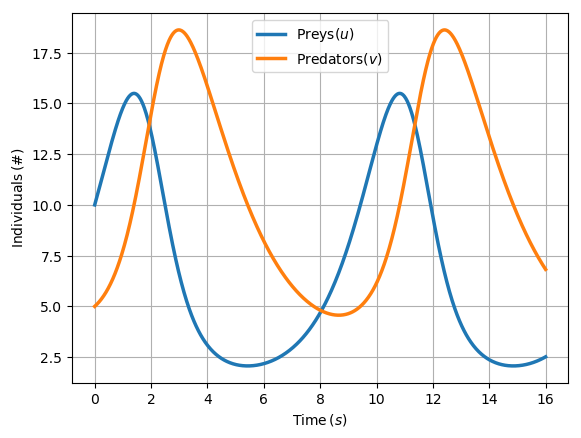
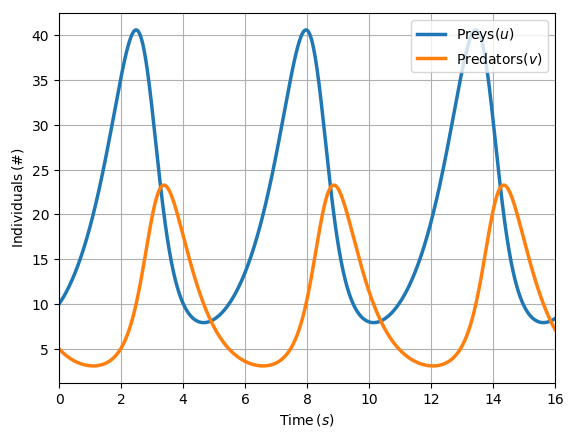
Refactored symbolic equation compilation mechanism to EquationBlock class. Added support for Python3.7

diff --git a/src/sloth/solvers.py b/src/sloth/solvers.py
@@ -231,13 +231,13 @@ class DSolver(Solver):
 
         self.additional_configurations = additional_configurations
 
-        self.compiled_diff_equations = None
+        self.compiled_equations = None
 
         self.compilation_mechanism = additional_configurations['compilation_mechanism']
 
-        if self.additional_configurations['compile_diff_equations']==True:
+        if self.additional_configurations['compile_equations']==True:
 
-            self.compiled_diff_equations = self._compileDiffSystemIntoFunction()
+            self.compiled_equations = self._compileDiffSystemIntoFunction()
 
     def lookUpForSolver(self):
 
@@ -261,6 +261,7 @@ class DSolver(Solver):
 
         # Concatenate all the variable symbolic maps from the differential equations
 
+        '''
         global_var_map = self.diffSystem[0].elementary_equation_expression[1].variable_map
 
         # Using underscore to ignore list comprehension output
@@ -274,6 +275,9 @@ class DSolver(Solver):
                                    ]
 
         return compiled_diff_equations_
+        '''
+
+        return self.problem.equation_block._getEquationBlockAsFunction('elementary','rhs', self.compilation_mechanism)
 
     def _createMappingFromValues(self, var_names, var_vals):
 
@@ -414,13 +418,15 @@ class DSolver(Solver):
             else:
                 args_ = {}
 
-            if self.additional_configurations['compile_diff_equations'] == True:
+            if self.additional_configurations['compile_equations'] == True:
 
                 global_dict = Y_.copy()
 
                 global_dict.update(args_)
 
-                res = [f_i(*list(global_dict.values())) for f_i in self.compiled_diff_equations]
+                #res = [f_i(*list(global_dict.values())) for f_i in self.compiled_equations]
+
+                res = self.compiled_equations(*list(global_dict.values()))
 
             else:
 
@@ -511,8 +517,6 @@ class DaeSolver(Solver):
 
         self.differential_Eqs, self.algebraic_Eqs = self.setUpDaeSystem()
 
-        self.diffY = self.setUpDiffY()
-
         self.arg_names = arg_names
 
         # Differently from another solvers, solver_mechanism is not initialized because this is done in the solving time (Simulation.runSimulation), where the user can set additional args and configuration args
@@ -523,13 +527,13 @@ class DaeSolver(Solver):
 
         #======================================================================
 
-        self.compiled_diff_equations = None
+        self.compiled_equations = None
 
         self.compilation_mechanism = additional_configurations['compilation_mechanism']
 
-        if self.additional_configurations['compile_diff_equations']==True:
+        if self.additional_configurations['compile_equations']==True:
 
-            self.compiled_diff_equations = self._compileDiffSystemIntoFunction()
+            self.compiled_equations = self._compileEquationsIntoFunctions()
 
         #======================================================================
 
@@ -539,40 +543,21 @@ class DaeSolver(Solver):
         Define the solver mechanism used for solution of the problem, given the name of desired mechanism in the instantiation of current Solver object 
         """
 
-        if self.solver==None or self.solver == 'sympy':
+        if self.solver==None or self.solver == 'IDA':
 
-            return self._sympySolveMechanism
+            return self._idaSolveMechanism
 
-        if self.solver=='scipy':
-
-            return self._scipySolveMechanism
-
-
-    def _compileDiffSystemIntoFunction(self):
+    def _compileEquationsIntoFunctions(self):
 
         """
-        Return the differential equations composing the differential system as an array of numpy functions
+        Return the equations composing the differential algebraic system as an array of numpy functions
 
-        :return compiled_diff_equations_:
-            Array containing each of the differntial equations composing the differential system as numpy functions 
+        :return:
+            Function that will return the result for each of the equations in form of an array 
         :rtype function:
         """
 
-        # Concatenate all the variable symbolic maps from the differential equations
-
-        global_var_map = self.diffSystem[0].elementary_equation_expression[1].variable_map
-
-        # Using underscore to ignore list comprehension output
-
-        _ = [global_var_map.update(eq_i.elementary_equation_expression[1].variable_map) for eq_i in self.diffSystem]
-
-        # Convert each equation to corresponding numpy func using global symbolic map, and store it in the compiled_diff_equations atribute
-
-        compiled_diff_equations_ = [eq_i._convertToFunction(global_var_map, 'rhs', self.compilation_mechanism)
-                                    for eq_i in self.diffSystem
-                                   ]
-
-        return compiled_diff_equations_
+        return self.problem.equation_block._getEquationBlockAsFunction(None,'rhs', self.compilation_mechanism)        
 
     def _createMappingFromValues(self, var_names, var_vals):
 
@@ -615,11 +600,7 @@ class DaeSolver(Solver):
 
         return res
 
-    def _scipySolveMechanism(self):
-
-        return integrate.odeint
-
-    def _sympySolveMechanism(self):
+    def _idaSolveMechanism(self):
 
         pass
 

diff --git a/src/sloth/core/equation_block.py b/src/sloth/core/equation_block.py
@@ -2,6 +2,7 @@
 # *coding:utf-8*
 
 import sympy as sp
+from numpy import array as np_array
 from scipy.linalg import solve
 from collections import OrderedDict
 from .variable import Variable
@@ -89,16 +90,63 @@ class EquationBlock:
 
                     var_name_list.append(var_i.name)
 
-
-
         # ===========================================
 
         return var_name_list
 
-    def _getEquationList(self):
+    def _getEquationBlockAsFunction(self, differential_form='residual', side='rhs', compilation_mechanism='numpy'):
+    
+        """
+        Return the Equations that compose the current EquationBlock object into a monolithical function that will return an array of results.
+
+        :param str differential_form:
+            Definition of which form the equations are presented, if in a 'elementary' form (y == a*x +b) or in a 'residual' form (y - a*x - b == 0). Defaults to 'residual'
+
+        :param str side:
+            Side of which the equality of the equation in the elementary form should be examined ('lhs' for left, 'rhs' for right-hand side). 
+
+        :param str compilation_mechanism:
+            Determination of which mechanism to use to compile the equations. Defaults to 'numpy'
+
+        :return:
+            Monolithic function corresponding to all the equations defined for current EquationBlock, retuning an array of results
+        :rtype function:
+        """
+ 
+        # POSSIBLY UNECESSARY SNIPPET. REMOVE IN FURTHER REFACTORIES
+        #===========================================================
+        '''
+        if differential_form == 'residual':
+
+            symbolic_map_ = self.equations[0]._getSymbolicMap('residual')
+
+            _ = [symbolic_map_.update(eq_i._getSymbolicMap('residual')) for eq_i in self.equations]
+
+        if differential_form == 'elementary':
+
+            symbolic_map_ = self.equations[0]._getSymbolicMap('elementary', side)
+
+            _ = [symbolic_map_.update(eq_i._getSymbolicMap('elementary', side)) for eq_i in self.equations]
+        '''
+        #=============================================================
+
+        fun_ = sp.lambdify(self._var_list, 
+                           np_array(self._getEquationList(differential_form, side)),
+                           compilation_mechanism
+                    )
+
+        return fun_
+
+    def _getEquationList(self, differential_form=None, side='rhs'):
 
         """
         Set the list of sympy expressions representing the equation.
+
+     :param str differential_form:
+            Definition of which form the equations are presented, if in a 'elementary' form (y == a*x +b) or in a 'residual' form (y - a*x - b == 0). Defaults to None, for which the declared form of the equation are used.
+
+        :param str side:
+            Side of which the equality of the equation in the elementary form should be examined ('lhs' for left, 'rhs' for right-hand side). 
 
         :return:
             List of the sympy expressions representing each Equation object of the model
@@ -106,7 +154,8 @@ class EquationBlock:
         :rtype list(sympy expresion):
         """
 
-        return [eq_i.equation_expression.symbolic_object for eq_i in self.equations]
+        #return [eq_i.equation_expression.symbolic_object for eq_i in self.equations]
+        return [eq_i._getSymbolicObject(differential_form, side) for eq_i in self.equations]
 
     def __call__(self):
 

diff --git a/src/sloth/core/equation.py b/src/sloth/core/equation.py
@@ -7,7 +7,7 @@ Define Connection class. Special type of Equation that are used as source or sin
 """
 
 from .expression_evaluation import EquationNode
-from .error_definitions import UnexpectedValueError, AbsentRequiredObjectError
+from .error_definitions import UnexpectedValueError, AbsentRequiredObjectError, UnresolvedPanicError
 import sympy as sp
 
 class Equation:
@@ -106,6 +106,76 @@ class Equation:
         else:
 
             self.type = None
+
+    def _getSymbolicObject(self, equation_form=None, side='rhs'):
+
+        """
+        Return the symbolic_object atribute of the EquationNode contained in the equation_expression atribute of the current Equation object
+
+        :param str equation_form:
+            Determine the form of the equation, if it is in the residual form (y - a*x - b == 0) or elementary form (y == a*x + b). Defaults to None, for which the equation form defined in the equation_form atribute is used
+
+        :param str side:
+            Determine which side of the equation should be examined to return the symbolic object. Valid only for those defined in the elementary form. Defaults to "rhs"
+
+        :return symbolic_object_:
+            Dictionary containing the mapping beetween the symbolic objects (sympy.Symbol) and their corresponding Quantity objects
+        """
+
+        if equation_form == None:
+
+            equation_form = self.equation_form
+
+        if equation_form == 'residual':
+
+            return self.equation_expression.symbolic_object
+
+        elif equation_form == 'elementary' and side is 'lhs':
+
+            return self.elementary_equation_expression[0].symbolic_object
+
+        elif equation_form == 'elementary' and side is 'rhs':
+
+            return self.elementary_equation_expression[1].symbolic_object
+        
+        else:
+
+            raise UnresolvedPanicError()
+
+    def _getSymbolicMap(self, equation_form=None, side='rhs'):
+
+        """
+        Return the symbolic_map atribute of the EquationNode contained in the equation_expression atribute of the current Equation object
+
+        :param str equation_form:
+            Determine the form of the equation, if it is in the residual form (y - a*x - b == 0) or elementary form (y == a*x + b). Defaults to None, for which the equation form defined in the equation_form atribute is used
+
+        :param str side:
+            Determine which side of the equation should be examined to return the symbolic map. Valid only for those defined in the elementary form. Defaults to "rhs"
+
+        :return symbolic_map_:
+            Dictionary containing the mapping beetween the symbolic objects (sympy.Symbol) and their corresponding Quantity objects
+        """
+
+        if equation_form == None:
+
+            equation_form = self.equation_form
+
+        if equation_form == 'residual':
+
+            return self.equation_expression.symbolic_map
+
+        elif equation_form == 'elementary' and side is 'lhs':
+
+            return self.elementary_equation_expression[0].symbolic_map
+
+        elif equation_form == 'elementary' and side is 'rhs':
+
+            return self.elementary_equation_expression[1].symbolic_map
+        
+        else:
+
+            raise UnresolvedPanicError()
 
     def _sweepObjects(self):
 

diff --git a/src/sloth/simulation.py b/src/sloth/simulation.py
@@ -82,7 +82,8 @@ class Simulation:
 
         self.problem = problem
 
-    def runSimulation(self, initial_time=0., 
+    def runSimulation(self, 
+                      initial_time=0., 
                       end_time=None, 
                       linear_solver='sympy', 
                       nonlinear_solver='sympy', 
@@ -90,7 +91,7 @@ class Simulation:
                       differential_algebraic_solver='scipy', 
                       problem_type=None, 
                       is_dynamic=False, 
-                      compile_diff_equations=True, 
+                      compile_equations=True, 
                       domain=None, 
                       time_variable_name='t', 
                       arg_names=[], 
@@ -117,7 +118,7 @@ class Simulation:
 
         else:
 
-            additional_conf = {'compile_diff_equations':compile_diff_equations, 
+            additional_conf = {'compile_equations':compile_equations, 
                                'domain':domain, 
                                'time_variable_name':time_variable_name,
                                'initial_time':initial_time,

diff --git a/tests/test_differential_model.py b/tests/test_differential_model.py
@@ -124,7 +124,11 @@ def test_simulation_properties(mod, prob, sim):
     assert sim.problem == prob
 
 
-def test_simulation_result(mod, prob, sim):
+#Test for either compile differential equations and direct symbolic evaluation
+@pytest.mark.parametrize("compile_equations",[True,False])
+
+
+def test_simulation_result(mod, prob, sim, compile_equations):
 
     prob.addModels(mod)
 
@@ -139,8 +143,8 @@ def test_simulation_result(mod, prob, sim):
                       is_dynamic=True,
                       domain=mod.dom,
                       time_variable_name="t_D0",
-                      compile_diff_equations=True,
                       print_output=False,
+                      compile_equations=compile_equations,
                       output_headers=["Time","Preys(u)","Predators(v)"],
                       variable_name_map={"t_D0":"Time(t)", 
                                          "u_D0":"Preys(u)", 

diff --git a/src/sloth/teste_usage.py b/src/sloth/teste_usage.py
@@ -121,6 +121,8 @@ def xec():
 
     prob.resolve()
 
+    print("~=~> Problem->EquationBlock->VarList: %s"%prob.equation_block._var_list)
+
     prob.setInitialConditions({'t_M1':0.,'u_M1':10.,'v_M1':5.})
 
     #print("\n===>%s"%mod1.dom.__dict__)
@@ -135,7 +137,7 @@ def xec():
                       domain=mod1.dom,
                       number_of_time_steps=1000,
                       time_variable_name="t_M1",
-                      compile_diff_equations=True,
+                      compile_equations=True,
                       print_output=False,
                       output_headers=["Time","Preys(u)","Predators(v)"],
                       variable_name_map={"t_M1":"Time(t)", 

diff --git a/src/sloth/plotter.py b/src/sloth/plotter.py
@@ -53,6 +53,9 @@ class Plotter:
                              linewidth=linewidth
                         )
 
+
+                    plt.xlim(min(x_data[i].reshape(-1)),max(x_data[i].reshape(-1)))
+
         else:
 
             for i in range(len(x_data)):
@@ -64,6 +67,7 @@ class Plotter:
                              linewidth=linewidth
                         )
 
+                    plt.xlim(min(x_data[i].reshape(-1)),max(x_data[i].reshape(-1)))
         plt.xlabel(x_label)
 
         plt.ylabel(y_label)
